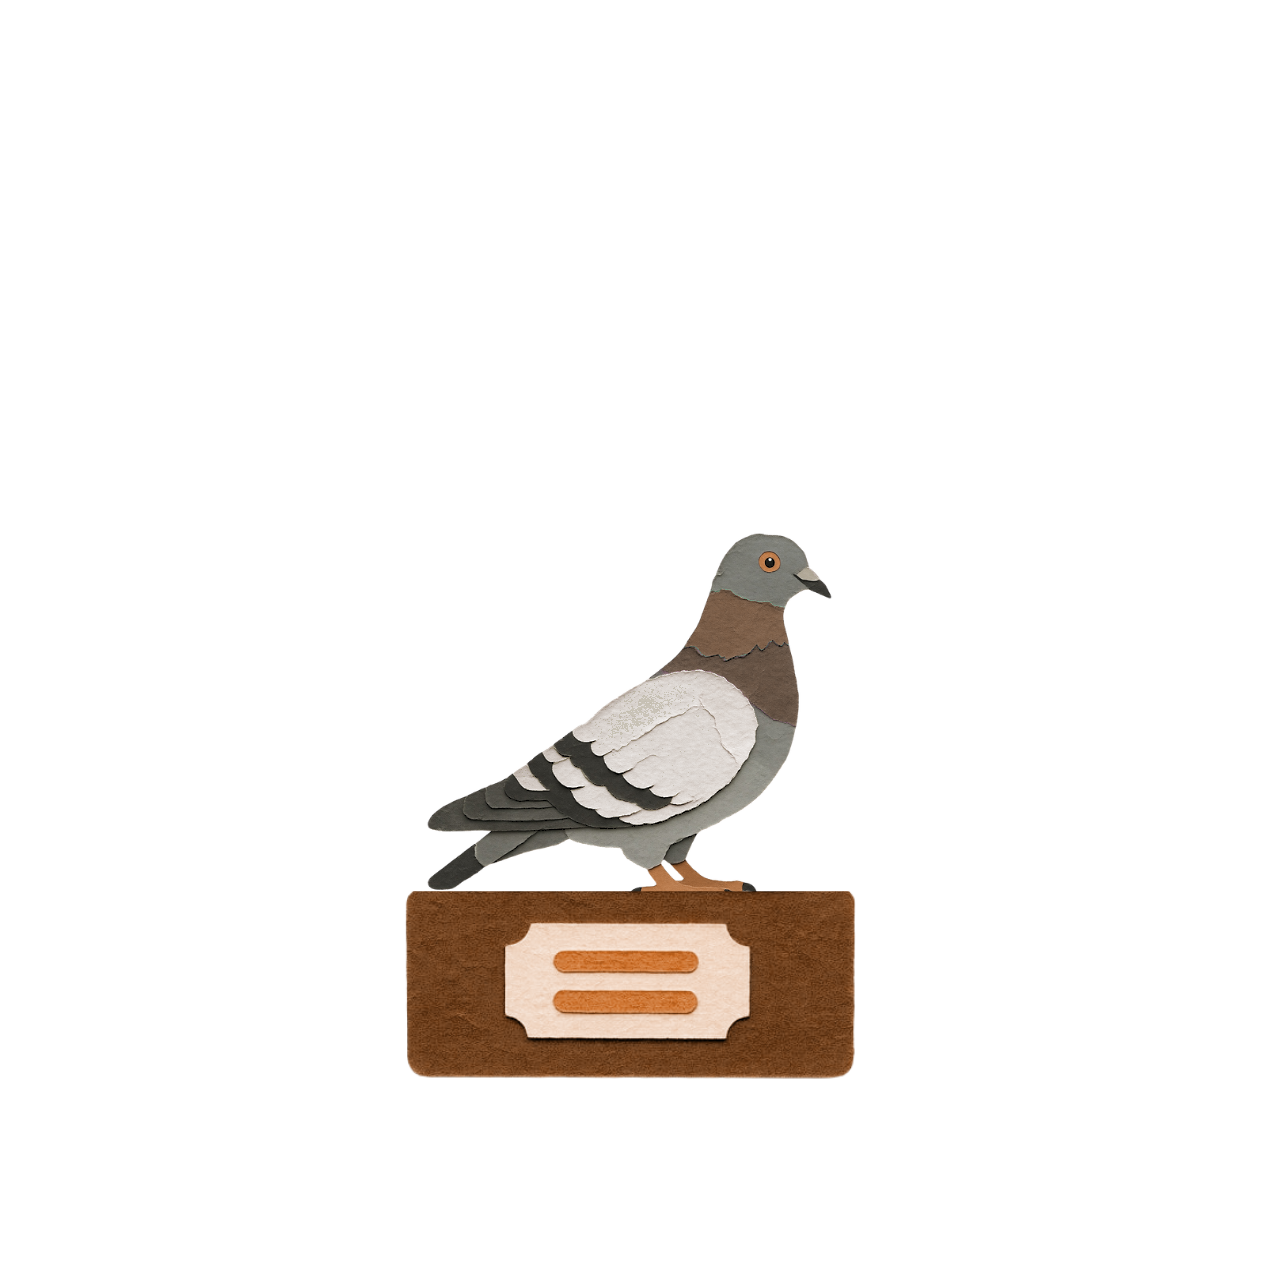
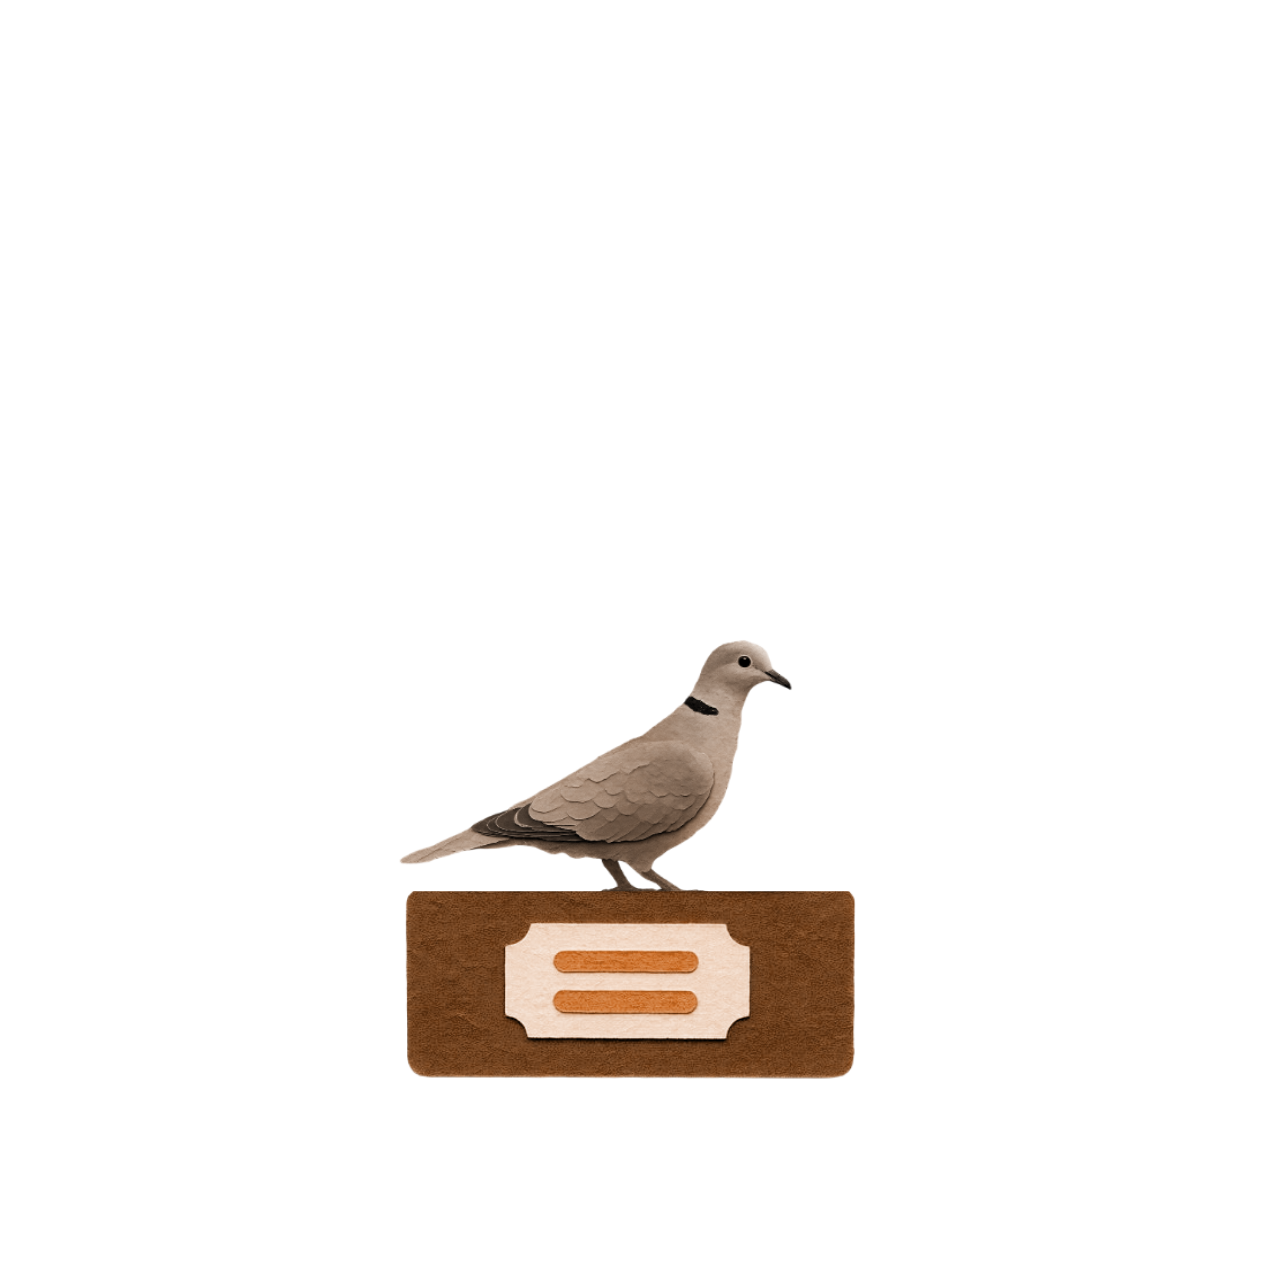
Trophee Pigeons & tourterelles : 6 nouveaux visuels papier-craft Canva (v2). Cache v187.

Changed region(s): [[0.3085, 0.4011, 0.6479, 0.7097]]

diff --git a/service-worker.js b/service-worker.js
@@ -3,7 +3,7 @@
 //   puis rafraichit en background. Prochain reload = nouvelle version.
 // - Requetes cross-origin (Firestore, iNaturalist, xeno-canto, Wikipedia, etc.) : reseau seul.
 // - Bump CACHE_VERSION quand on veut invalider volontairement.
-const CACHE_VERSION = 'v186-2026-09-15-galliformes-paon-v2';
+const CACHE_VERSION = 'v187-2026-09-15-columbidae-visuel-v2';
 const CACHE_NAME = 'lmb-' + CACHE_VERSION;
 
 self.addEventListener('install', (e) => {
